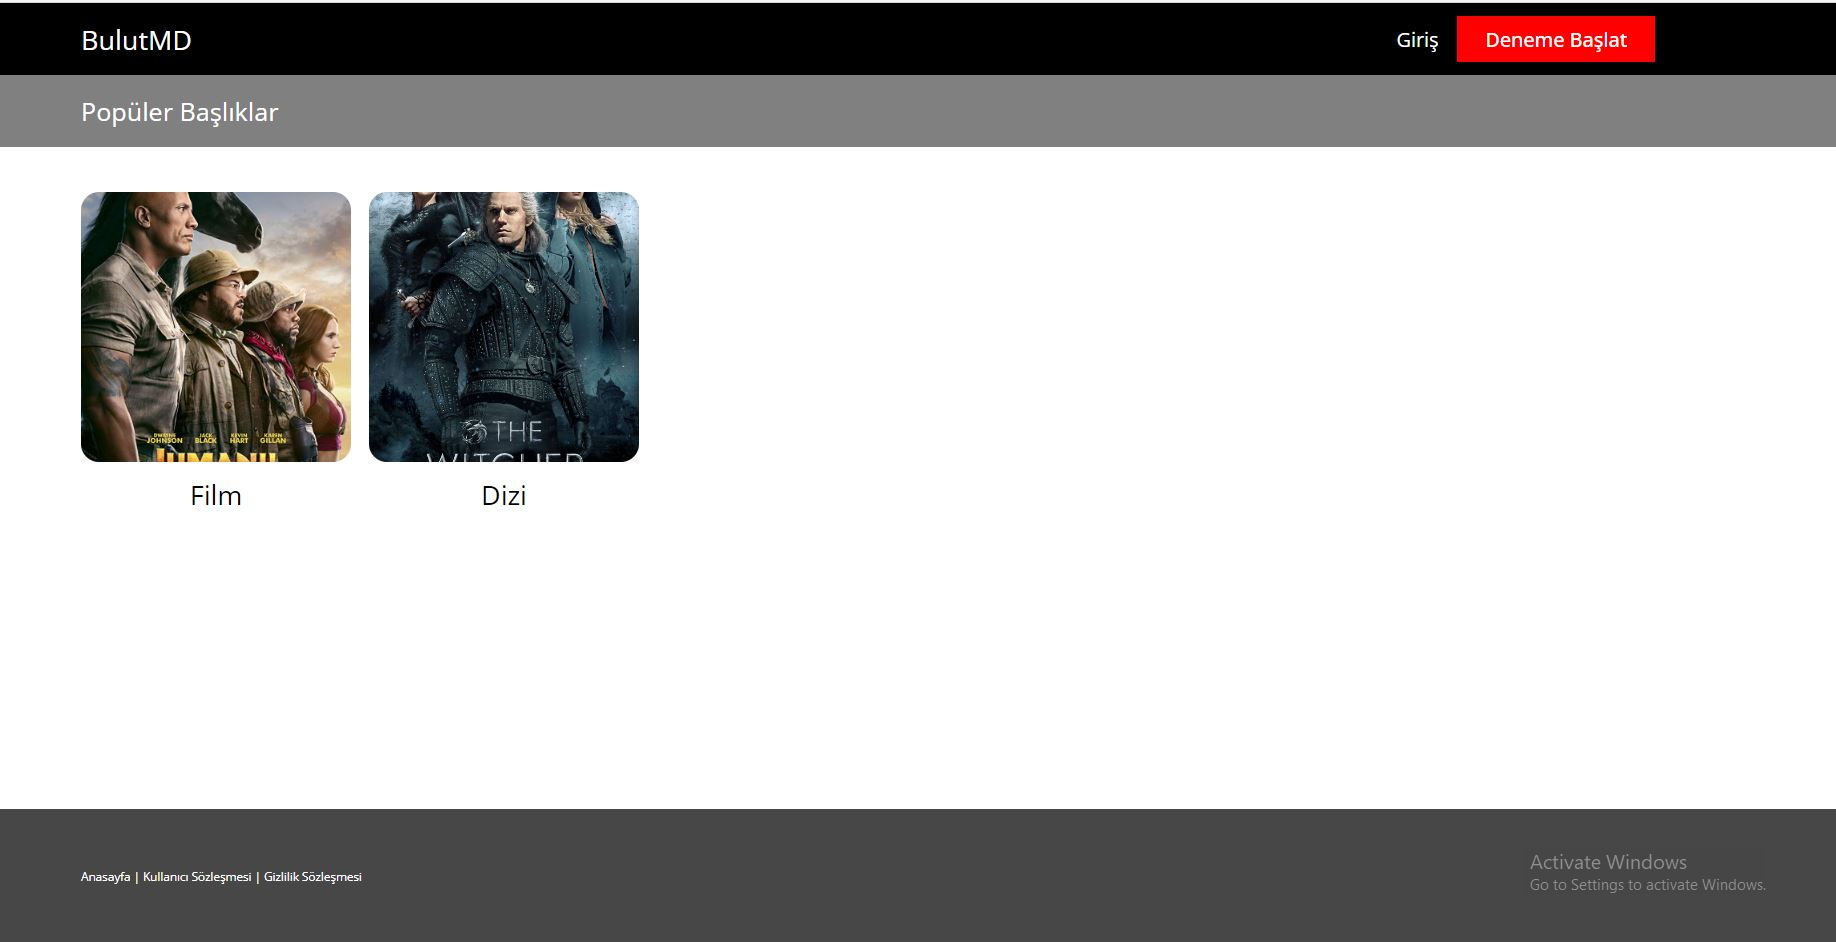
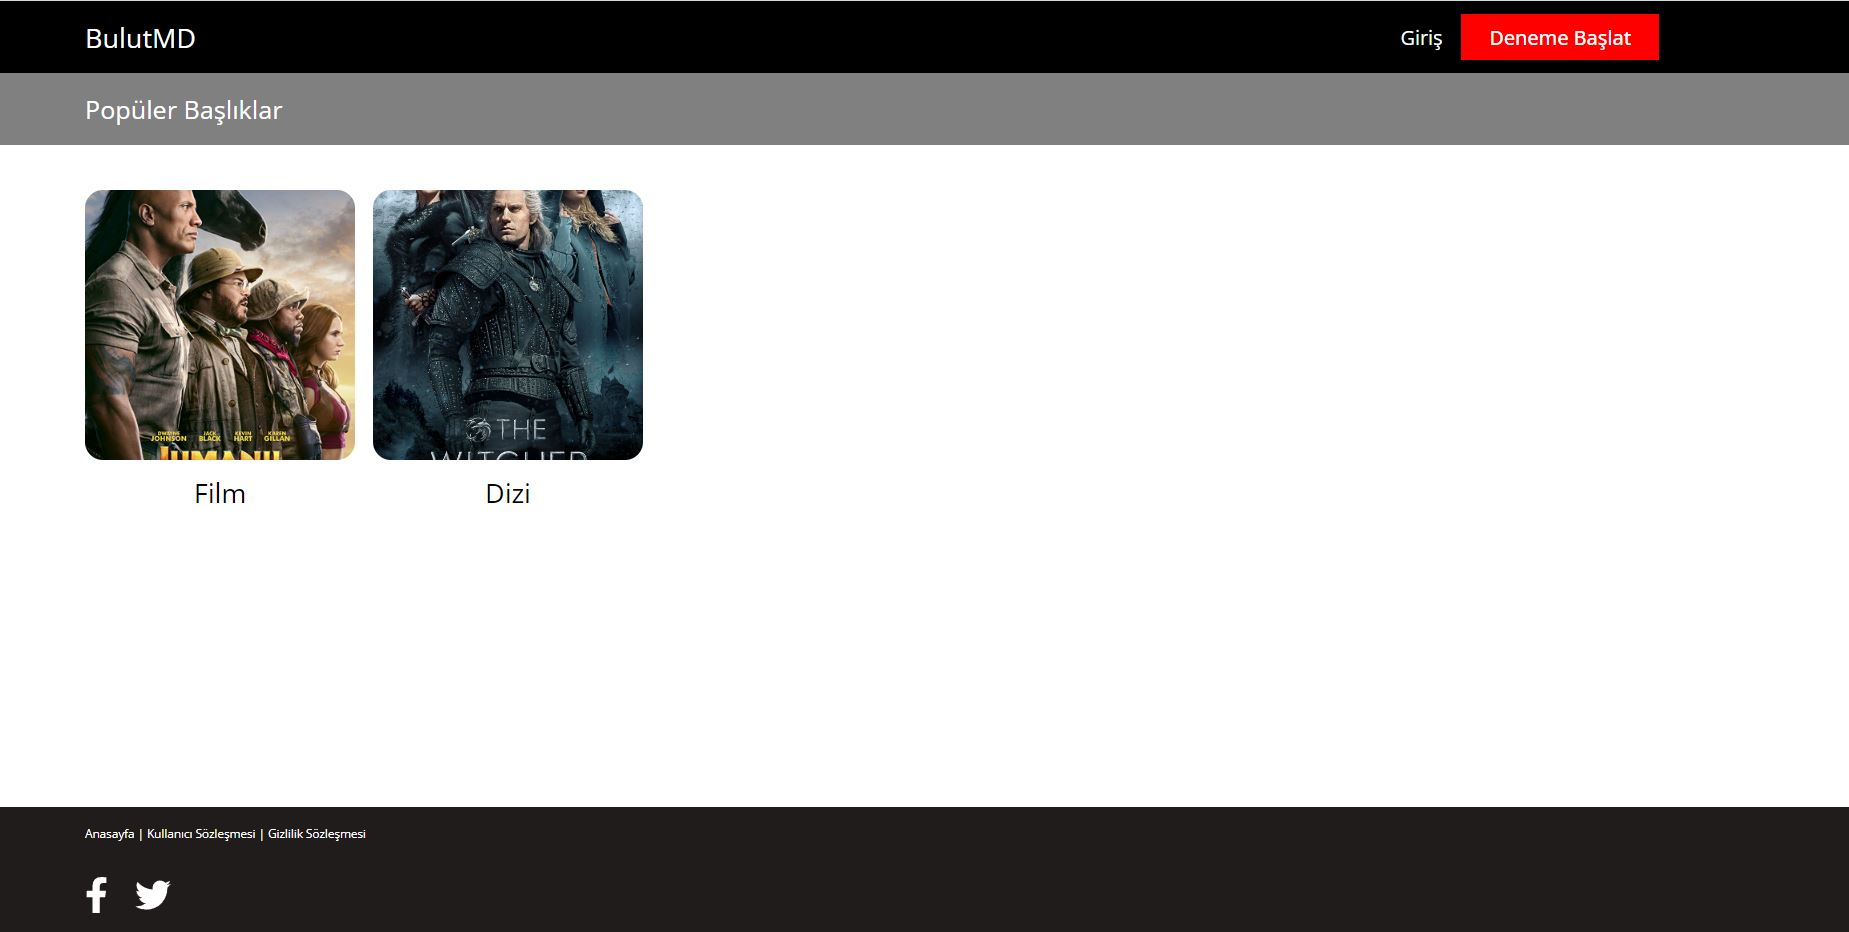
Add files via upload

diff --git a/src/components/footer/Footer.jsx b/src/components/footer/Footer.jsx
@@ -1,10 +1,17 @@
 import './footer.css';
+import {FontAwesomeIcon} from '@fortawesome/react-fontawesome';
+import {faCoffee} from '@fortawesome/free-solid-svg-icons';
+import {faFacebookF, faTwitter} from '@fortawesome/free-brands-svg-icons';
 
 const Footer = () => {
   return (
     <div className='footer'>
       <div className='footerContainer'>
         <span>Anasayfa | Kullanıcı Sözleşmesi | Gizlilik Sözleşmesi</span>
+        <div className='icons'>
+          <FontAwesomeIcon icon={faFacebookF} className='icon' />
+          <FontAwesomeIcon icon={faTwitter} className='icon' />
+        </div>
       </div>
     </div>
   );

diff --git a/src/components/footer/footer.css b/src/components/footer/footer.css
@@ -2,7 +2,7 @@
   display: flex;
   align-items: center;
   justify-content: center;
-  background-color: #474747;
+  background-color: rgb(32, 28, 28);
   color: white;
   position: relative;
   bottom: 0;
@@ -14,14 +14,26 @@
   display: flex;
   max-width: 1800px;
   color: white;
-  height: 150px;
-  align-items: center;
+  height: 130px;
+  flex-direction: column;
+  align-items: flex-start;
+  margin-top: 20px;
 }
 
 .page-container {
   display: flex;
   flex-direction: column;
   min-height: 100vh;
+}
+
+.icons {
+  display: flex;
+  gap: 30px;
+  margin-top: 40px;
+}
+
+.icon {
+  font-size: 40px;
 }
 
 .content-wrap {
